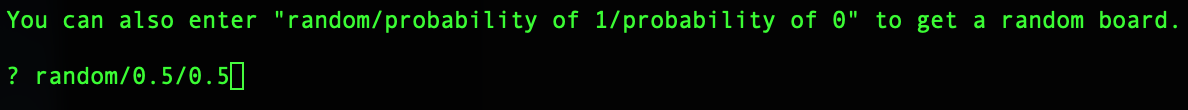
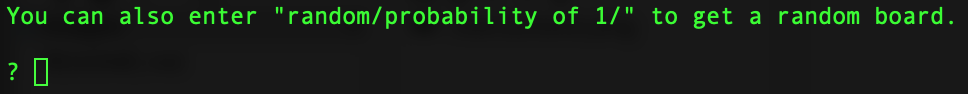
updated images

Changed region(s): [[0.0, 0.0638, 0.9917, 0.3191], [0.0, 0.5532, 0.2169, 0.9149]]

diff --git a/cgol_grapher.py b/cgol_grapher.py
@@ -16,7 +16,7 @@ print("\nStructure each input like this: x/y/state.")
 print("\nFor example: 10/10/1 would set (10,10) to be alive.")
 print("\nFor multiple inputs, structure it like this: x/y/s;x/y/s;x/y/s")
 print("\nREMEMBER: The matrix starts at index 0, which means the tile or cell \n          in the top left would be 0/0")
-print("\nYou can also enter \"random/probability of 1/probability of 0\" to get a random board.\n")
+print("\nYou can also enter \"random/probability of 1/\" to get a random board.\n")
 inp = input("? ")
 if inp.startswith("random"):
     prob1 = float(inp[inp.find("/")+1:inp.find("/",inp.find("/")+1)])
